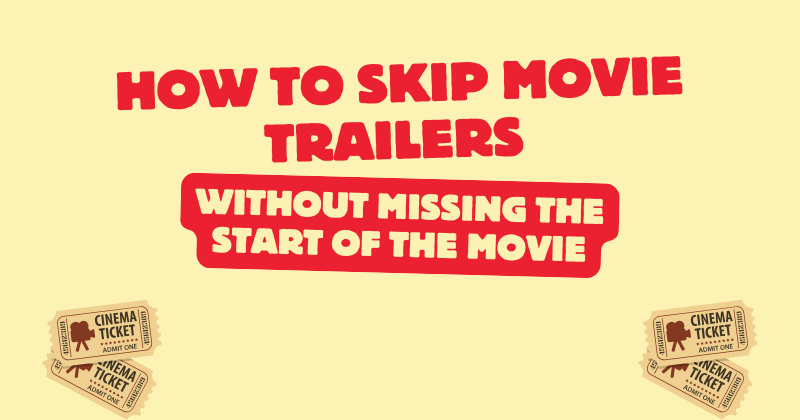
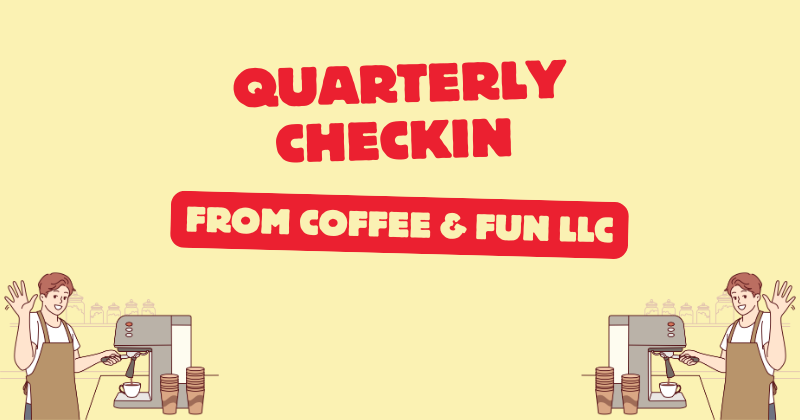
D

Changed region(s): [[0.125, 0.1238, 0.875, 0.681], [0.0, 0.65, 0.2812, 1.0], [0.7188, 0.65, 1.0, 1.0]]

diff --git a/src/pages/blog/coffee-and-fun-quarterly-update-spring-2025.md b/src/pages/blog/coffee-and-fun-quarterly-update-spring-2025.md
@@ -4,7 +4,7 @@ submit: false
 footer: true
 header: true
 layout: templates/post.liquid
-title: Quarterly Check-In From the Coffee & Fun Coffee Shop
+title: Quarterly Check-In From Coffee & Fun LLC 
 description: It’s been a wild and wonderful start to the year at Coffee & Fun. From open source Roomba tools and a Markdown Editor milestone to Hide Spoilers blowing up on iOS — here’s a peek behind the scenes.
 keywords: Coffee and Fun, Quarterly Update, Open Source, Roomba Hacks, Hide Spoilers, Markdown Editor, Helperbird Updates, Accessibility Tools, Behind the Scenes, Developer Blog, Product Updates, Tech Experiments, Community Building
 url: blog/coffee-and-fun-quarterly-update-spring-2025/
